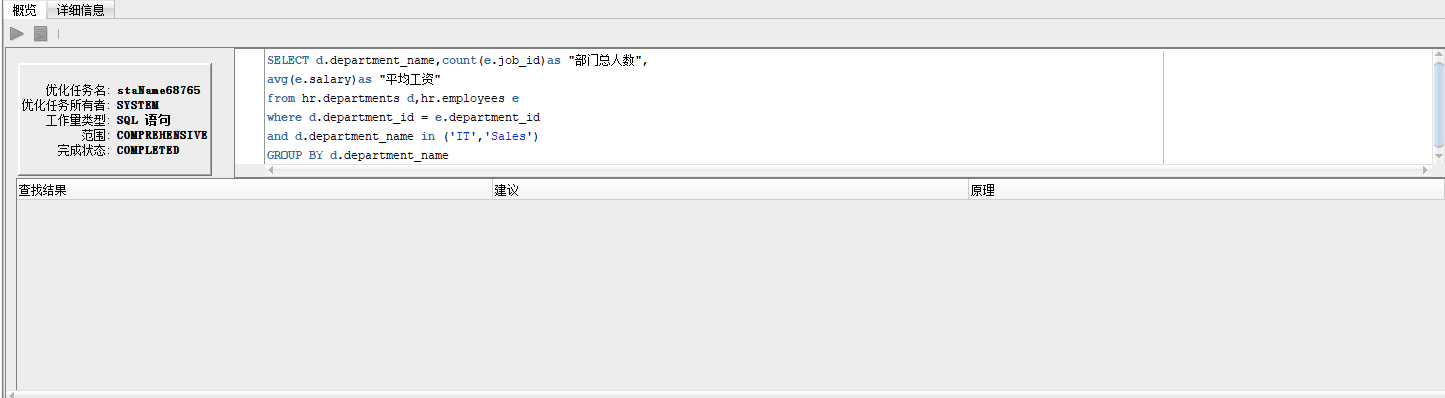
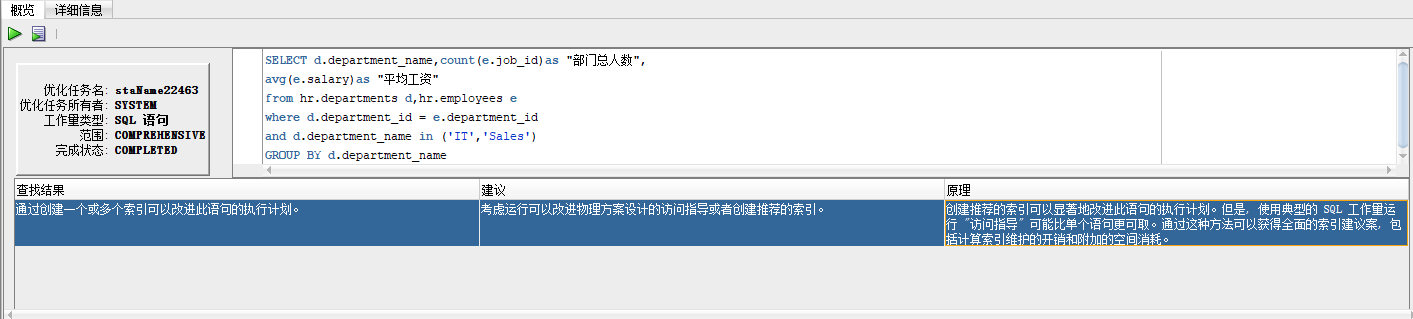
实验一

Changed region(s): [[0.0, 0.0, 1.0, 1.0]]

diff --git a/test1/README.md b/test1/README.md
@@ -12,7 +12,7 @@
 
 ### 查询与分析
 * 查询1：
-```
+```SQL
 set autotrace on
 
 SELECT d.department_name,count(e.job_id)as "部门总人数",
@@ -36,7 +36,7 @@ GROUP BY d.department_name;
 ![Image text](../test1/img/0103.png)
 
 * 查询2：
-```
+```SQL
 set autotrace on
 
 SELECT d.department_name,count(e.job_id)as "部门总人数",
@@ -59,13 +59,11 @@ HAVING d.department_name in ('IT','Sales');
 ![Image text](../test1/img/0203.png)
 
 ### 分析和结论：
-“查询1”是先进行筛选再进行分组，即先进行HAVING操作再进行GROUP操作；“查询2”则是先进行分组再进行筛选，即先进行GROUP操作再进行HAVING操作。这两个步骤的先后顺序影响了两条查询语句的执行效率，从上图的查询花费时间对比可得，“查询1”的速度比“查询2”的速度更快，重复多次运行后，得到的结论依然成立。
-
-我认为是因为“查询1”使用HAVING操作后已经得到了相应的数据集合，GROUP操作只是将该数据集进行排序，速度较快；而”查询2“则是先进行GROUP操作将大量的数据进行排序，排序量更大所有执行效率较低，再执行HAVING就仍需要在大量的数据集中进行指定数据类的查询，使效率再一次降低。
+从优化指导中 可以得出，“查询1”没有使用索引功能，导致查询的速度没有“查询2”的查询速度快，而“查询2”使用了索引。从“脚本输出”得到的结果还可以看出，查询同样的数据，“查询1”的“逻辑读”即logical read只有7万多条，而“查询2”的logical read有10万多条。又查资料得到，逻辑读是从内存中读取数据，而物理读是从磁盘中读取数据，内存的运行速率是大于磁盘的，从而也可以得到“查询2”的执行速率大于“查询1”。
 
 ### 设计查询：
 我使用了内连接的方式设计查询，即使用了INNER JOIN连接两张表来进行查询：
-```
+```SQL
 set autotrace on
 
 SELECT hr.departments.department_name,count(hr.employees.job_id)as "部门总人数",
